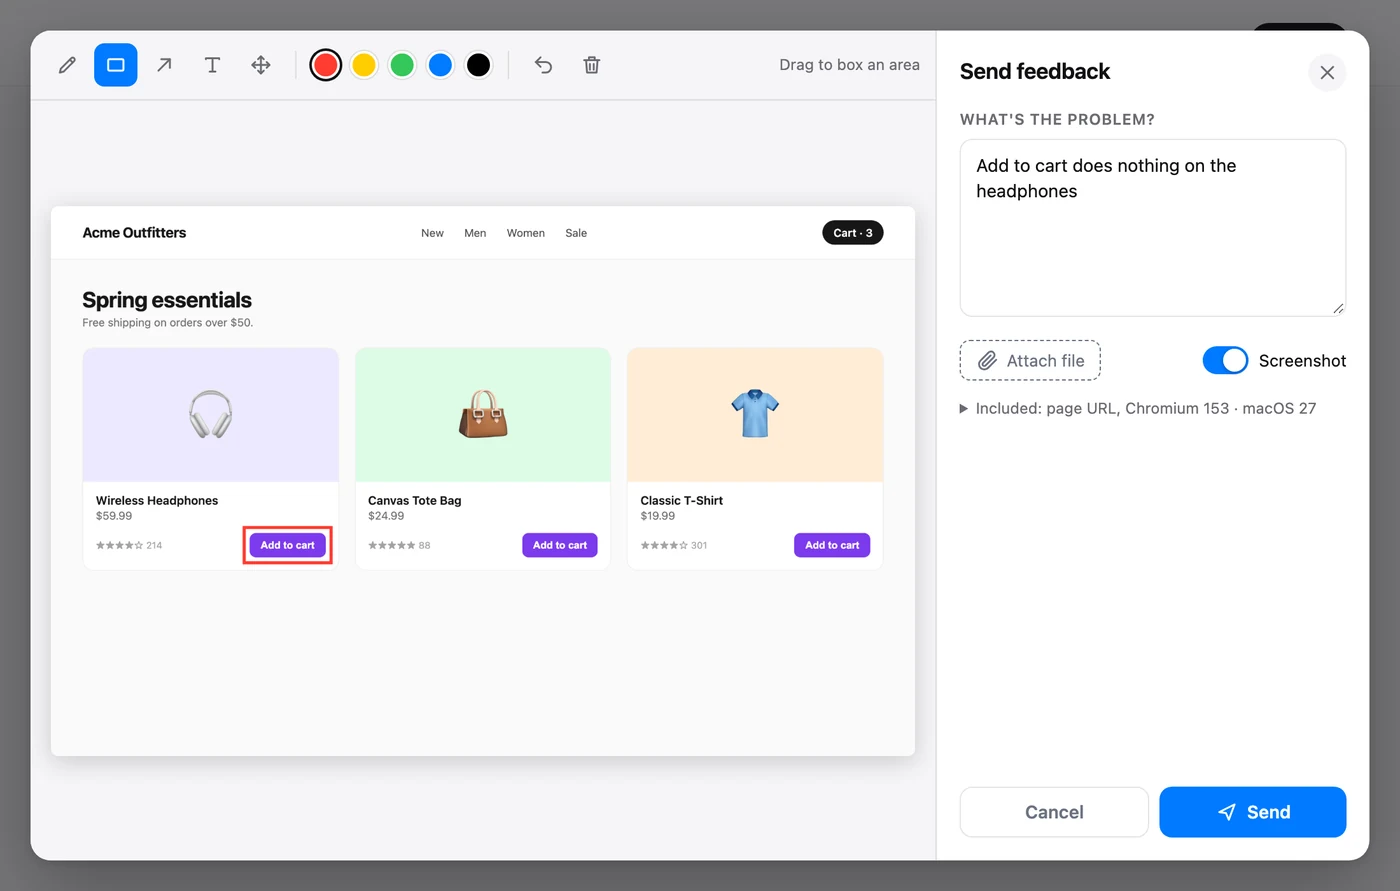
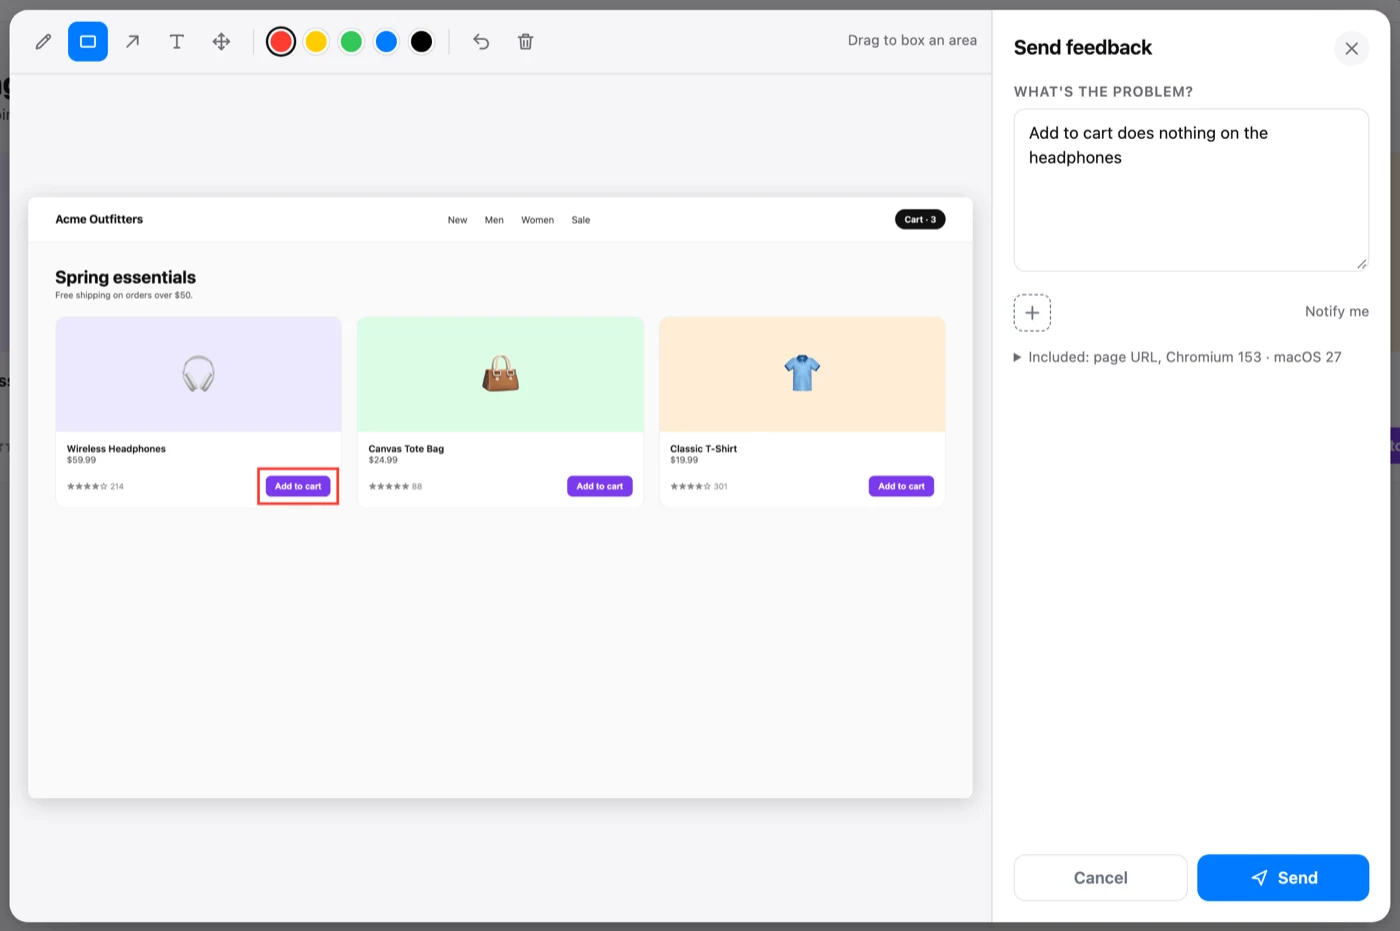
feat(web): re-capture the landing page's device images with the + menu
Both images still showed the composer's old Screenshot switch. Re-captured
from the real SDKs:

- iOS: the demo app's annotate screen on an iPhone 17 Pro Max (clean 9:41
  status bar), rectangle around the first Add button from its real frame,
  the report text, and "Notify me" on from the + menu. WebP at 750px:
  51 KB, down from a 150 KB PNG.
- Web: the SDK dialog over a demo store, same rectangle/description, with
  the + button and "Notify me".

scripts/landing-captures/capture.sh reproduces both (a throwaway UI-test
project that includes the demo app's own, and a Playwright script), so the
next UI change doesn't mean rebuilding the setup.

Claude-Session: https://claude.ai/code/session_01V3UD5P9bwXNxa2SbMEqJNJ

diff --git a/scripts/landing-captures/store.html b/scripts/landing-captures/store.html
@@ -1,0 +1,28 @@
+<!doctype html>
+<html><head><meta charset="utf-8"><title>Acme Outfitters</title>
+<style>
+  * { box-sizing: border-box; }
+  body { margin: 0; font-family: -apple-system, BlinkMacSystemFont, "Inter", system-ui, sans-serif; background: #fafafa; color: #111; }
+  header { display: flex; align-items: center; justify-content: space-between; padding: 18px 40px; background: #fff; border-bottom: 1px solid #eee; }
+  .brand { font-weight: 700; font-size: 17px; }
+  nav { display: flex; gap: 26px; font-size: 14px; color: #333; }
+  .cart { background: #111; color: #fff; border-radius: 999px; padding: 7px 14px; font-size: 13px; font-weight: 600; }
+  main { padding: 36px 40px; }
+  h1 { margin: 0; font-size: 26px; } .sub { margin: 4px 0 24px; font-size: 13px; color: #555; }
+  .grid { display: grid; grid-template-columns: repeat(3, 1fr); gap: 22px; }
+  .card { background: #fff; border: 1px solid #eee; border-radius: 14px; overflow: hidden; }
+  .img { height: 170px; display: flex; align-items: center; justify-content: center; font-size: 56px; }
+  .info { padding: 16px; } .name { font-weight: 600; font-size: 14px; } .price { font-size: 13px; color: #555; }
+  .row { display: flex; align-items: center; justify-content: space-between; margin-top: 16px; font-size: 12px; color: #888; }
+  .add { background: #7c3aed; color: #fff; border: 0; border-radius: 8px; padding: 8px 14px; font-size: 13px; font-weight: 600; }
+</style></head>
+<body>
+<header><div class="brand">Acme Outfitters</div><nav><span>New</span><span>Men</span><span>Women</span><span>Sale</span></nav><div class="cart">Cart · 3</div></header>
+<main><h1>Spring essentials</h1><p class="sub">Free shipping on orders over $50.</p>
+<div class="grid">
+  <div class="card"><div class="img" style="background:#ede9fe">🎧</div><div class="info"><div class="name">Wireless Headphones</div><div class="price">$59.99</div><div class="row"><span>★★★★☆ 214</span><button class="add" id="first-add">Add to cart</button></div></div></div>
+  <div class="card"><div class="img" style="background:#dcfce7">👜</div><div class="info"><div class="name">Canvas Tote Bag</div><div class="price">$24.99</div><div class="row"><span>★★★★★ 88</span><button class="add">Add to cart</button></div></div></div>
+  <div class="card"><div class="img" style="background:#ffedd5">👕</div><div class="info"><div class="name">Classic T-Shirt</div><div class="price">$19.99</div><div class="row"><span>★★★★☆ 301</span><button class="add">Add to cart</button></div></div></div>
+</div></main>
+<script src="../../web-sdk/dist/feedbackkit.iife.js"></script>
+</body></html>

diff --git a/scripts/landing-captures/CaptureUITests/HeroCaptureTests.swift b/scripts/landing-captures/CaptureUITests/HeroCaptureTests.swift
@@ -1,0 +1,48 @@
+import XCTest
+
+/// Captures the landing page's iOS image: the annotate screen with a
+/// rectangle around the first "Add" button, a description, and "Notify me"
+/// switched on from the composer's + menu. Run by scripts/landing-captures/capture.sh; not part of the regular test suites.
+final class HeroCaptureTests: XCTestCase {
+    func testCaptureHero() throws {
+        let app = XCUIApplication()
+        app.launch()
+
+        let add = app.buttons.matching(NSPredicate(format: "label == 'Add'")).firstMatch
+        XCTAssertTrue(add.waitForExistence(timeout: 10))
+        let screen = app.windows.firstMatch.frame
+        let target = add.frame
+
+        app.buttons["Report a Problem"].tap()
+        let canvas = app.otherElements["FeedbackKit.AnnotationCanvas"]
+        XCTAssertTrue(canvas.waitForExistence(timeout: 10))
+
+        // Describe it first, then dismiss the keyboard with a tap outside the composer.
+        let text = app.textViews.firstMatch
+        text.tap()
+        text.typeText("The first Add button doesn't do anything.")
+        app.staticTexts["Report Feedback"].tap()
+        sleep(1)
+
+        // Rectangle around the button's real frame, mapped into the canvas (same aspect ratio as the screen).
+        app.buttons["Rectangle"].tap()
+        let pad: CGFloat = 5
+        func point(_ x: CGFloat, _ y: CGFloat) -> XCUICoordinate {
+            canvas.coordinate(withNormalizedOffset: CGVector(dx: (x - screen.minX) / screen.width, dy: (y - screen.minY) / screen.height))
+        }
+        let start = point(target.minX - pad, target.minY - pad)
+        let end = point(target.maxX + pad, target.maxY + pad)
+        start.press(forDuration: 0.3, thenDragTo: end)
+
+        app.buttons["Options and attachments"].tap()
+        // Menu items with a subtitle expose "title, subtitle" as their label.
+        let notify = app.descendants(matching: .any).matching(NSPredicate(format: "label BEGINSWITH %@", "Notify Me")).firstMatch
+        if !notify.waitForExistence(timeout: 5) { print(app.debugDescription) }
+        notify.tap()
+        XCTAssertTrue(app.staticTexts["Notify me"].waitForExistence(timeout: 5))
+        sleep(1)
+
+        let path = ProcessInfo.processInfo.environment["CAPTURE_PATH"] ?? "/tmp/hero-ios.png"
+        try XCUIScreen.main.screenshot().pngRepresentation.write(to: URL(fileURLWithPath: path))
+    }
+}

diff --git a/web/src/components/landing/BrowserMockup.tsx b/web/src/components/landing/BrowserMockup.tsx
@@ -3,7 +3,8 @@ import demoWebScreenshot from "@/assets/demo-web-feedback.webp";
 /**
  * A real screenshot of the web SDK's annotate dialog (web-sdk/, captured in
  * Chromium over a small demo storefront with a rectangle drawn around the
- * first "Add to cart" button), in a CSS-drawn browser window. The dialog,
+ * first "Add to cart" button, and "Notify me" turned on from the composer's
+ * + menu), in a CSS-drawn browser window. The dialog,
  * toolbar and composer are the SDK's own UI, not a mockup; only the window
  * chrome around it is drawn by this page.
  */
@@ -21,7 +22,7 @@ export function BrowserMockup({ className = "" }: { className?: string }) {
       </div>
       <img
         src={demoWebScreenshot}
-        alt="FeedbackKit's web SDK dialog on a demo store: the page screenshot with a rectangle drawn around the first Add to cart button, and the description 'Add to cart does nothing on the headphones'"
+        alt="FeedbackKit's web SDK dialog on a demo store: the page screenshot with a rectangle drawn around the first Add to cart button, the description 'Add to cart does nothing on the headphones', and 'Notify me' turned on from the composer's + menu"
         className="block w-full"
       />
     </div>

diff --git a/web/src/components/landing/PhoneMockup.tsx b/web/src/components/landing/PhoneMockup.tsx
@@ -1,5 +1,5 @@
 import type { ReactNode } from "react";
-import demoScreenshot from "@/assets/demo-feedback-screen.png";
+import demoScreenshot from "@/assets/demo-feedback-screen.webp";
 
 /**
  * A real screenshot captured from the demo app (DemoApp/), mid-flow through
@@ -40,7 +40,7 @@ export function PhoneMockup({
           <div className="relative overflow-hidden rounded-[11.5%/5.3%] bg-white">
             <img
               src={demoScreenshot}
-              alt="FeedbackKit's iOS annotate screen in the demo app: a screenshot of the Home tab with a rectangle drawn around the first Add button, captured mid-report"
+              alt="FeedbackKit's iOS annotate screen in the demo app: a screenshot of the Home tab with a rectangle drawn around the first Add button, the description 'The first Add button doesn't do anything.', and 'Notify me' turned on from the composer's + menu"
               className="block w-full"
             />
             {overlay}

diff --git a/CLAUDE.md b/CLAUDE.md
@@ -48,7 +48,7 @@ file is about how to build/test/run things day to day.
 | `cli/` | `feedbackkit` CLI + MCP server (Node/TypeScript) — reads feedback/prompts as a logged-in user |
 | `skills/` | Agent Skills catalog (`vercel-labs/skills`) for automated setup via AI coding agents |
 | `.github/workflows/` | Release/deploy pipelines, plus one CI workflow per product, each on PRs and pushes filtered to its paths: `sdk-ci.yml` (Swift SDK on macOS, iOS Simulator, watchOS build), `portal-ci.yml` (Portal tests), `cli-ci.yml`, `backend-ci.yml` (Edge Function type-check, migrations applied from scratch, skills validation) and `web-sdk-ci.yml` (web SDK unit + 3-browser e2e, dashboard clean build). `beta.yml` calls the SDK and Portal workflows as its gate, and `publish-cli.yml` runs the CLI tests before publishing |
-| `scripts/` | `setup.sh`, `run-ios.sh`, `run-macos.sh`, `run-watchos.sh`, `run-portal-ios.sh`, `run-portal-macos.sh`, `start-web.sh`, `deploy-functions.sh`, `cut_release.sh`, `generate_mac_icon.py`, `generate_social_preview.py`, `release_testflight.sh`, `release_portal_testflight.sh`, `release-mac.sh`, `release_macos_demo.sh`, `release_portal_macos.sh` |
+| `scripts/` | `setup.sh`, `run-ios.sh`, `run-macos.sh`, `run-watchos.sh`, `run-portal-ios.sh`, `run-portal-macos.sh`, `start-web.sh`, `deploy-functions.sh`, `cut_release.sh`, `generate_mac_icon.py`, `generate_social_preview.py`, `release_testflight.sh`, `release_portal_testflight.sh`, `release-mac.sh`, `release_macos_demo.sh`, `release_portal_macos.sh`, `landing-captures/capture.sh` (re-captures the landing page's iOS and web device images from the real SDKs) |
 | `branding/` | FeedbackKit logo assets (SVG source + PNG exports) — reused for the iOS app icon and the GitHub OAuth App's logo |
 
 ## Commands
